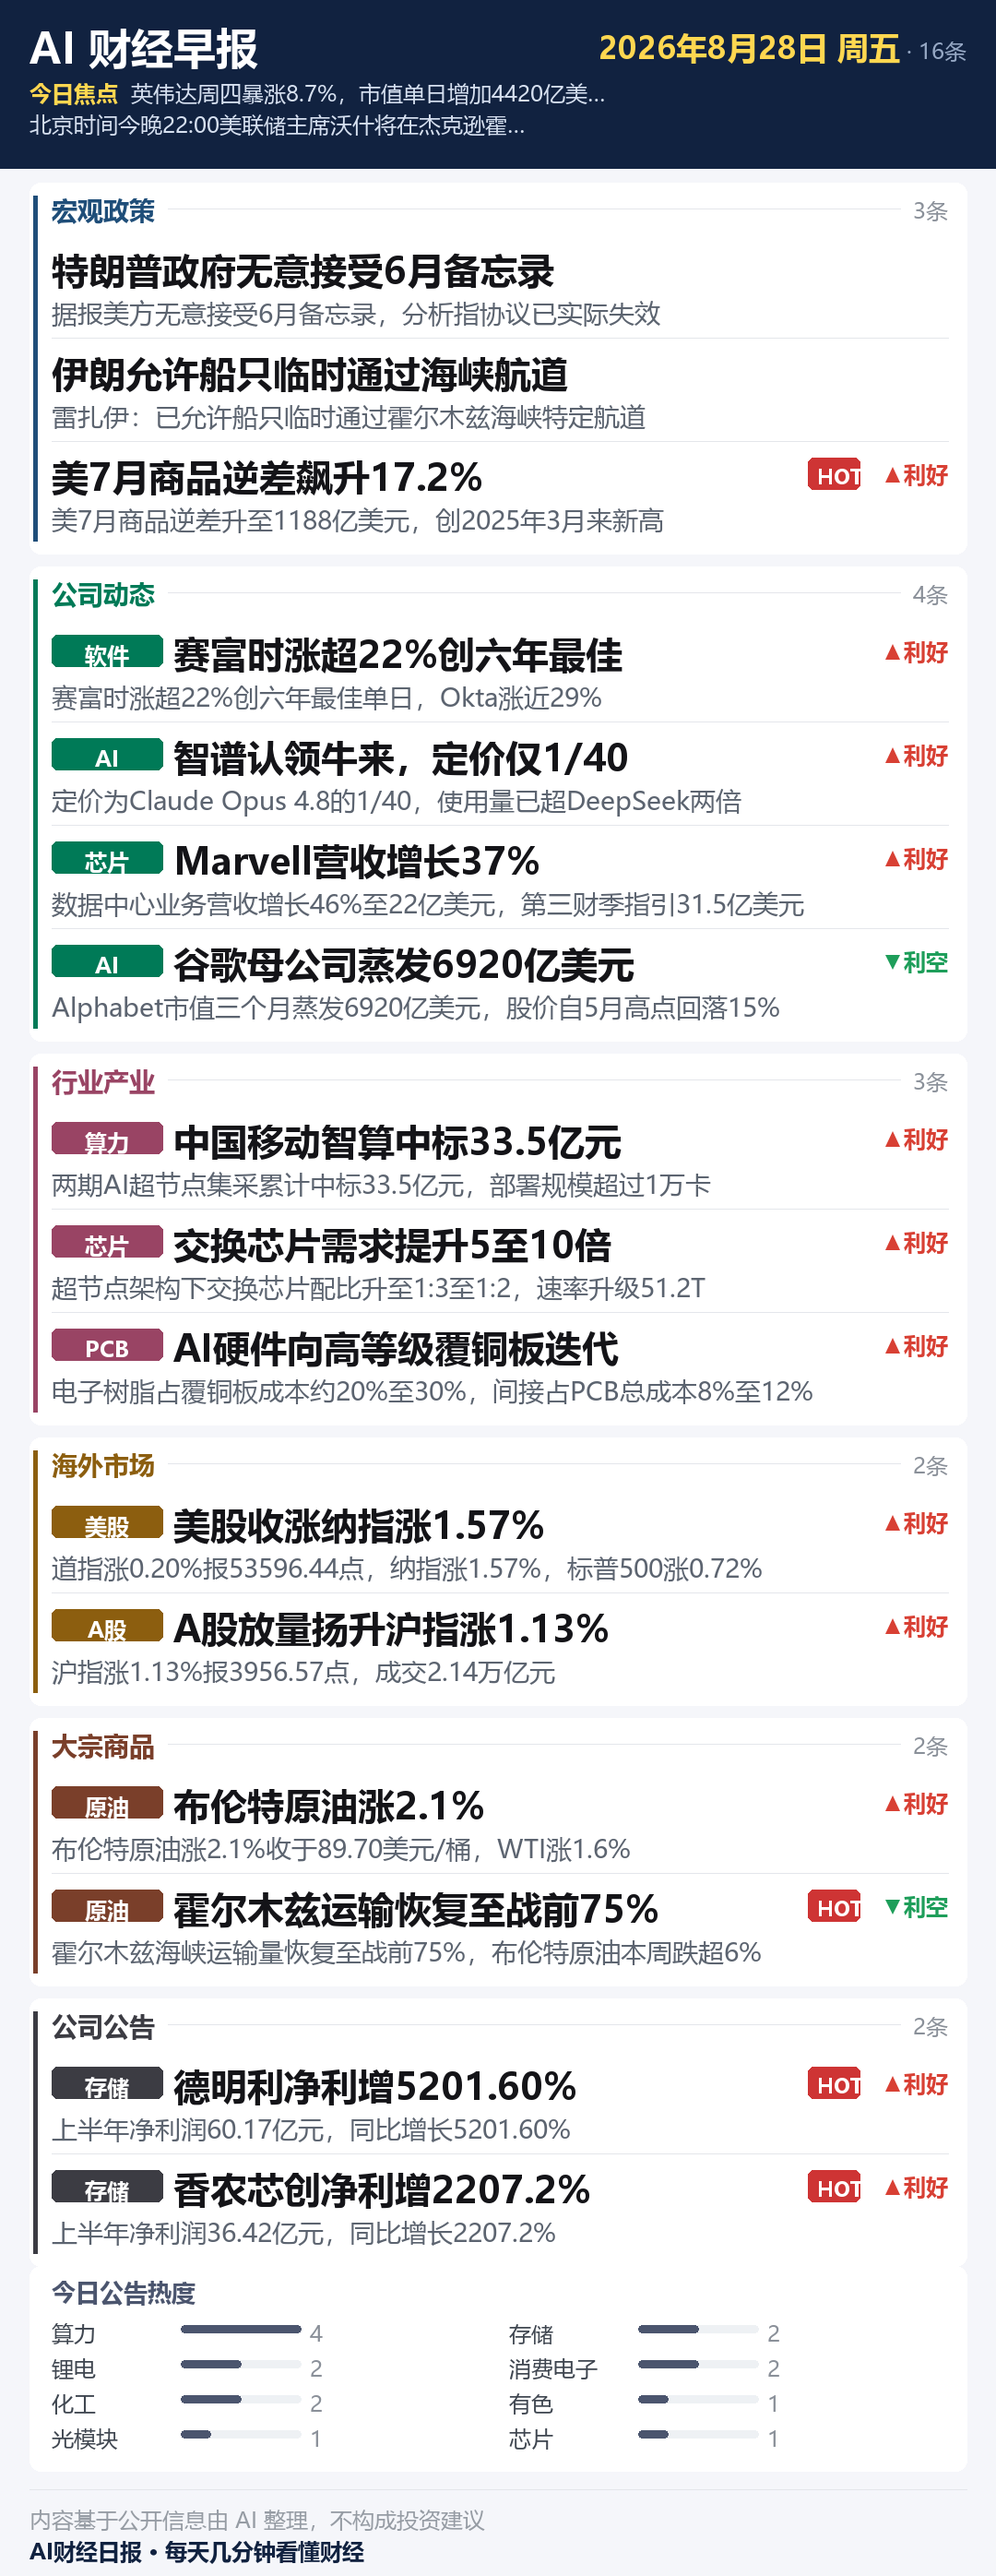
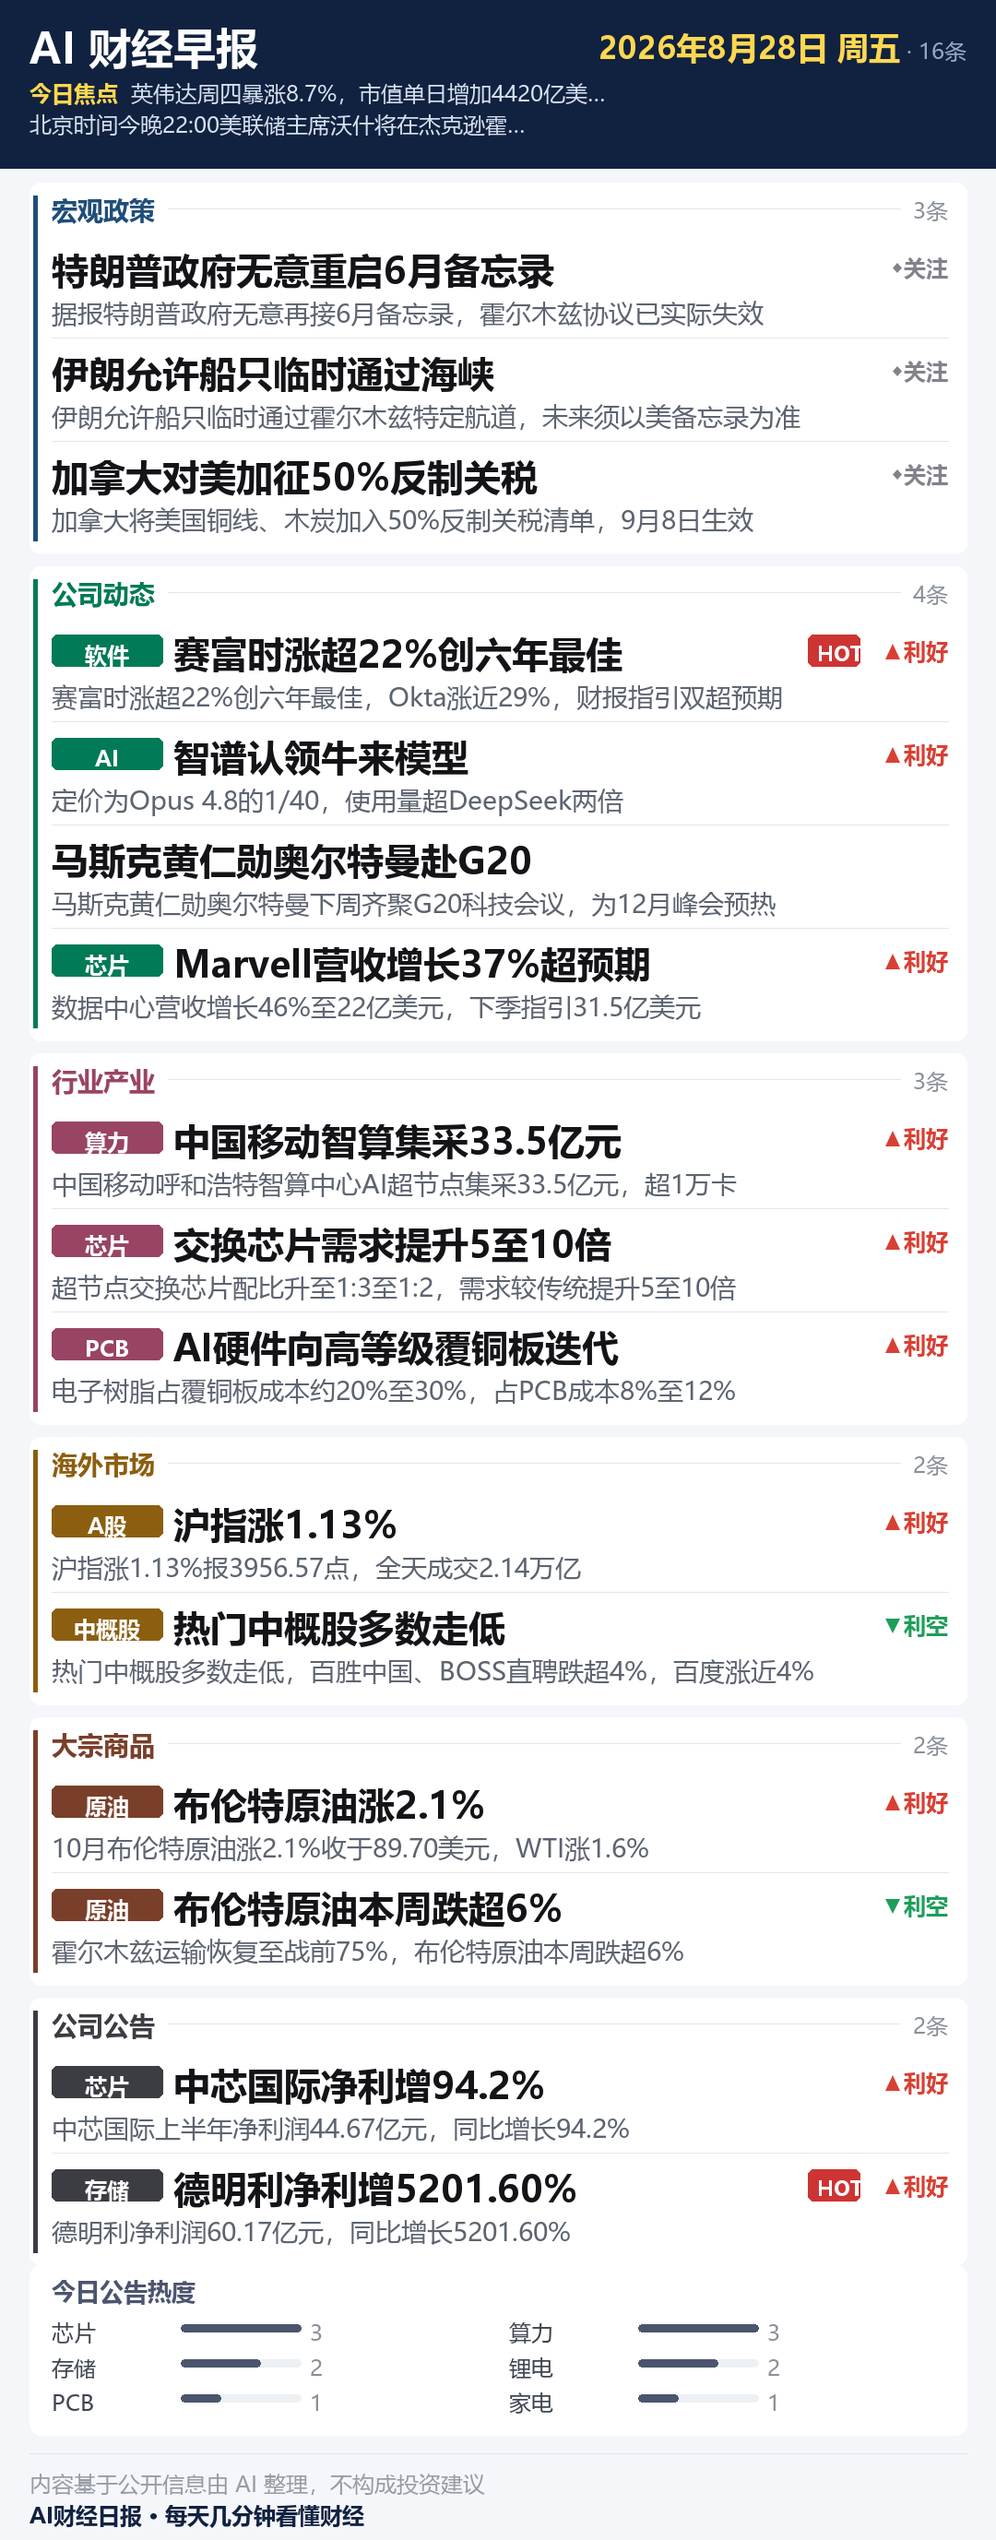
tag 步模型可切换(ark 通道): --set tag_model=ark:kimi-k3, 11 模型横评定选型
11 模型同题横评(8-28 打标任务, 修正编号错位后):
- kimi-k3 胜出: 52条/0表外/0枚举违/没标逆差#18/编号对齐/11.8k tokens 省
- minimax-m3 与 deepseek-v4-flash 低一致率实为编号错位(焦点区计入编号), 非判定分歧
- 思考型(deepseek-flash/glm5.3/minimax) 32768 token 全烧思考链 → --reasoning-effort low/--thinking disabled
ark 通道实现(_ark_complete):
- 绕开 npm .cmd 垫片直接调 node+run.js: cmd.exe 命令行 8191 上限装不下 13k 字任务文本
- shutil.which('bash') 会命中 WSL bash 陷阱(无 arkcli), 弃用
- 失败自动降级默认 llm_complete; 生产验证: [ark] kimi-k3 39/69标注(历史最高)/16卡全解读/98s(快一倍)
提示词: 「承压/关注」复合枚举歧义修复(d 字段单值, 四家模型踩过的坑)

diff --git a/flows/steps/morning.py b/flows/steps/morning.py
@@ -122,6 +122,46 @@ def _load_sectors(pack_dir: Path) -> list:
     return [w for g in groups for w in g]
 
 
+def _ark_complete(user: str, system: str, model: str, max_tokens: int = 16384) -> str:
+    """ark 系模型走 arkcli CLI(火山订阅额度, 模型可用 ark: 前缀切换)。
+    11 模型横评(2026-08-29)推荐序: kimi-k3 > doubao-seed-2-1-turbo > glm-5-3-flash。
+    失败抛异常, 由调用方降级回默认 llm_complete。"""
+    import json as _json
+    import shutil
+    import subprocess
+    from pathlib import Path as _P
+    # 绕开 npm .cmd 垫片(cmd.exe 命令行 8191 上限装不下 13k 字任务文本):
+    # 垫片本质 = node <npm>/node_modules/@volcengine/ark-cli/scripts/run.js <args>,
+    # node.exe 是真 exe, CreateProcess 32k 字符上限足够
+    exe = shutil.which("arkcli")
+    if not exe:
+        raise RuntimeError("arkcli 不在 PATH, 无法走 ark 通道")
+    js = _P(exe).parent / "node_modules" / "@volcengine" / "ark-cli" / "scripts" / "run.js"
+    if not js.exists():
+        raise RuntimeError(f"arkcli 入口未找到: {js}")
+    node = shutil.which("node") or "node"
+    cmd = [node, str(js), "+chat", "--no-progress", "--model", model,
+           "--instructions", system, "--reasoning-effort", "low",
+           "--max-output-tokens", str(max_tokens), user]
+    try:
+        r = subprocess.run(cmd, capture_output=True, timeout=900)
+    except FileNotFoundError:
+        raise RuntimeError("arkcli 不在 PATH, 无法走 ark 通道")
+    out = r.stdout.decode("utf-8", "replace").strip()
+    if not out:
+        raise RuntimeError(f"arkcli 无输出: {r.stderr.decode('utf-8', 'replace')[:200]}")
+    try:
+        d = _json.JSONDecoder().raw_decode(out)[0]      # 截掉尾部版本提示
+    except Exception:
+        raise RuntimeError(f"arkcli 输出异常: {out[:150]}")
+    if d.get("ok") is False:
+        raise RuntimeError(f"arkcli 错误: {str((d.get('error') or {}).get('message'))[:200]}")
+    if not d.get("content"):
+        raise RuntimeError(f"ark {model} content 为空(思考链截断, 试 --thinking disabled)")
+    print(f"  [ark] {d.get('model')} tokens={(d.get('usage') or {}).get('total_tokens')}")
+    return d["content"]
+
+
 def _restore_raw(wf, ctx) -> None:
     """把待发队列的文章还原为无解读干净稿(raw_backup 优先, 否则剥离 ↳ 行)。"""
     article_p = ctx.get("article_path")
@@ -187,11 +227,21 @@ def tag_morning_items(ctx, wf, params):
     system = daily.load_prompt("morning_tags_system",
                                "你是量化资讯编辑,只输出严格 JSON。")
     print(f"解读标签[{mode}]: {len(items)} 条正文条目 / 送模型 {len(user)} 字 ...")
-    raw = llm_complete(user, system=system, max_tokens=4000, temperature=0.2)
+    m_model = str(params.get("model", "")).strip()
+
+    def _call() -> str:
+        if m_model.startswith("ark:"):
+            try:
+                return _ark_complete(user, system, m_model[4:])
+            except RuntimeError as e:
+                print(f"⚠ ark 通道失败({e}), 降级默认模型")
+        return llm_complete(user, system=system, max_tokens=4000, temperature=0.2)
+
+    raw = _call()
     parsed, err = _parse_tags(raw, sectors, items, mode)
     if err and not err.startswith("表外词"):
         print(f"⚠ JSON 校验失败({err}), 重试一次 ...")
-        raw = llm_complete(user, system=system, max_tokens=4000, temperature=0.2)
+        raw = _call()
         parsed, err = _parse_tags(raw, sectors, items, mode)
     if err:
         print(f"⚠ 解读标签失败({err}), 降级发布无解读版")

diff --git a/flows/builtin/morning-digest/prompts/morning_tags.md b/flows/builtin/morning-digest/prompts/morning_tags.md
@@ -20,11 +20,11 @@
 - 利好:对该板块基本面/政策面/风险偏好构成直接正面影响
 - 利空:直接负面影响(不及预期/跌价/禁令/处罚/大跌)
 - 中性:有明确板块映射但素材未给出方向
-- 承压/关注:仅限「地缘」「事件」标签条目使用(方向不明时的降格表述)
+- 承压 或 关注:两个独立枚举值, d 字段只写其中之一(禁止写「承压/关注」), 仅限「地缘」「事件」标签条目使用(方向不明时的降格表述)
 
 四、判定纪律(严格遵守)
 1. 只允许两级依据:L1 素材显式信号(利好/大涨/涨价/超预期/中标/处罚等方向词或机构点评);L2 数字强蕴含(净利+94%、订单翻倍,只复述数字禁补原因)。禁止 L3 多步推理(如"美联储鹰派→成长股承压"这类传导推论一律不标)。
-2. 免标清单:①纯指数/大盘/汇率/成交速览的「行情」条不标(如"纳指涨1.57%""两市成交2.14万亿"——涨跌数字已明示,复读无意义);但含具体公司或行业主体的行情条必须正常打板块(如"赛富时涨近23%→利好软件","芯片股领跑"→利好芯片);②含"据报/被曝/据报道/消息人士"的传闻条目一律不标;③「地缘」条目不给利好/利空(只允许承压/关注/中性);④纯宏观总量数据(无行业指向)不标。
+2. 免标清单:①纯指数/大盘/汇率/成交速览的「行情」条不标(如"纳指涨1.57%""两市成交2.14万亿"——涨跌数字已明示,复读无意义);但含具体公司或行业主体的行情条必须正常打板块(如"赛富时涨近23%→利好软件","芯片股领跑"→利好芯片);②含"据报/被曝/据报道/消息人士"的传闻条目一律不标;③「地缘」条目不给利好/利空(只允许 承压、关注 或 中性, 均为单值);④纯宏观总量数据(无行业指向)不标。
 3. 业绩公告条目:默认板块映射+中性;素材明确写"超预期/不及预期/扭亏"时才给利好/利空。
 4. 公司公告区:每条都给板块映射(方向一般中性),用于区末热度汇总;量级异常条(增长超10倍/扭亏)可给利好。
 5. 上下游反向:同一事件对不同板块方向可不同(铜价涨:矿业利好/线缆利空),各自成立、分行表达。
